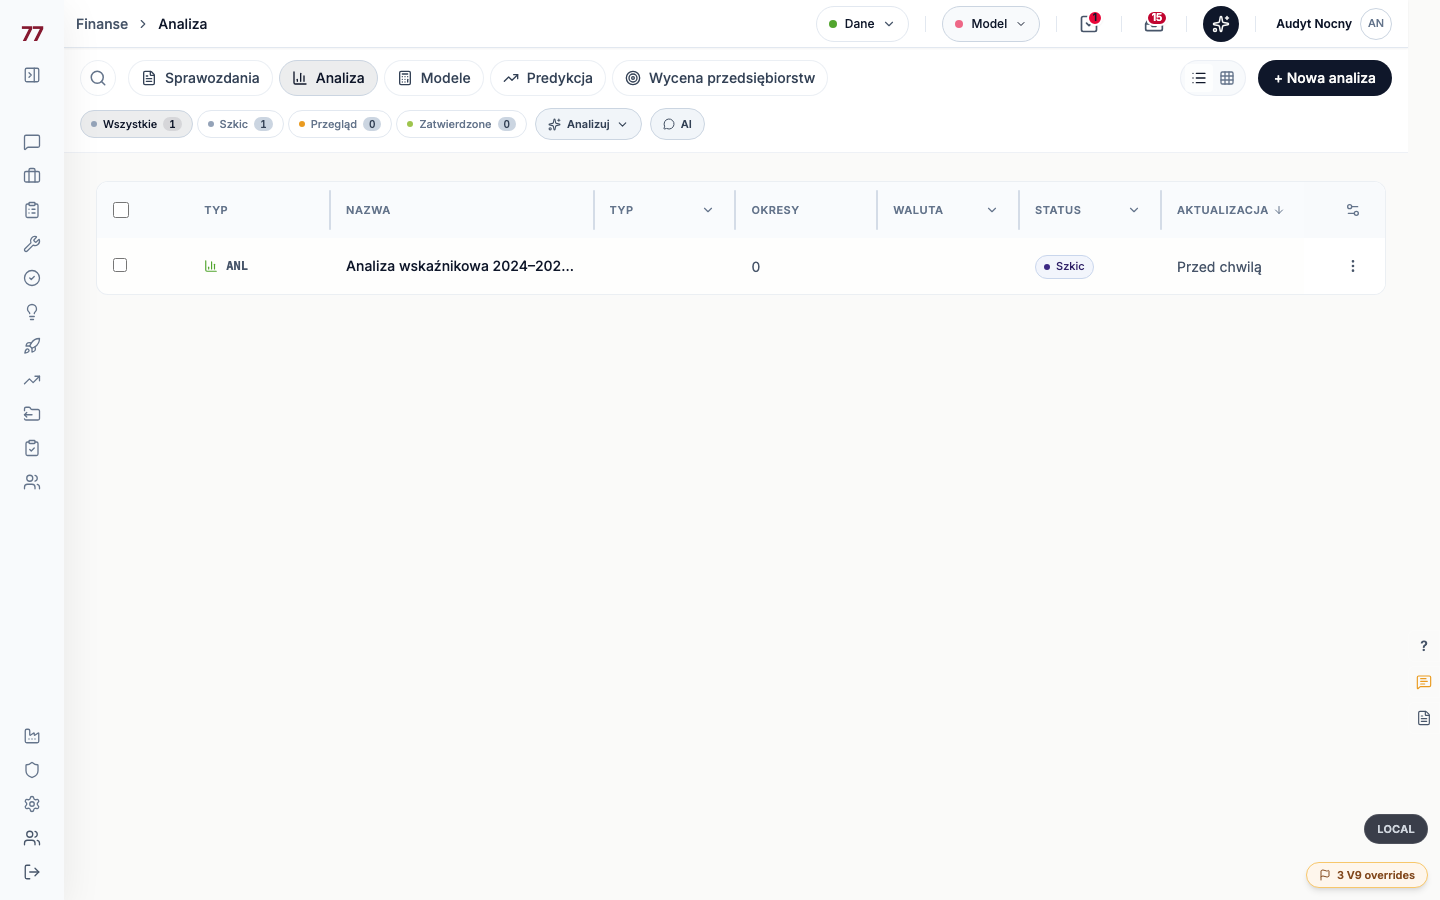
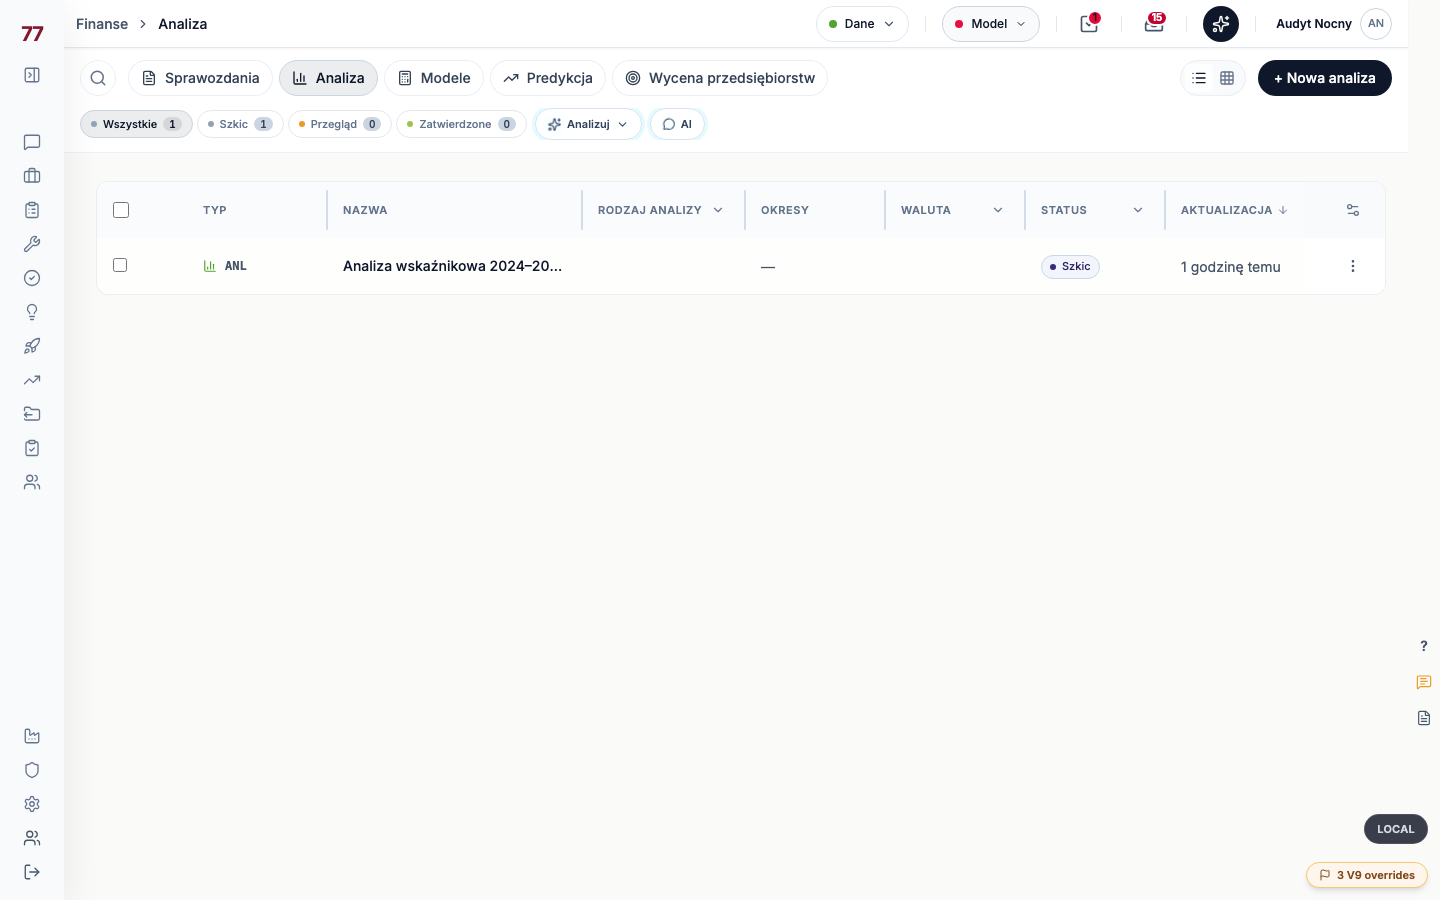
docs(finanse): raport dowodowy CD PROJEKT + zrzuty na zywo; uczciwa kreska zamiast 0 okresow
evidence/finanse-cdprojekt-pokaz-20260906/ — 6 zrzutow na zywo (wlasny serwer 4120 +
wlasny vite 3094, lokalna baza), kazdy z bledyKonsoli: [], plus RAPORT.md z pomiarem
roznicowym czerwonych wzgledem bazy 445b8c6f54 (zero nowych) i stanem stagingu.

Dodatkowo: rzut rejestru kanonicznego na liscie Analiz pokazywal 'OKRESY 0' — to bylo
falszem (analiza ma dwa okresy), a nie brakiem danych; teraz kreska.
Test AnalysisWorkspace.smoke: asercja zaktualizowana do nazwy ze slownika (fikstura
trzymala 'Marza brutto', ekran pokazuje 'Marza brutto na sprzedazy').

diff --git a/src/components/Finance/Analysis/__tests__/AnalysisWorkspace.smoke.test.tsx b/src/components/Finance/Analysis/__tests__/AnalysisWorkspace.smoke.test.tsx
@@ -207,7 +207,12 @@ describe('AnalysisWorkspace — montowanie realnego komponentu (jsdom)', () => {
       />
     );
     await waitFor(() => expect(apiMocks.getAnalysisKpiValues).toHaveBeenCalled());
-    await screen.findByText('Marża brutto');
+    // ★ Od naprawy audytu FIN 2026-09-06 (defekt #6a) nazwa wskaźnika NIE jest
+    // brana z `kpiName` katalogu (bywa angielska: „Gross Margin %"), tylko ze
+    // słownika `financeKpiLabels` — dla GROSS_MARGIN_PCT jest to „Marża brutto
+    // na sprzedaży". Fikstura celowo zostawia w `kpiName` inną wartość, żeby ten
+    // test dowodził, że wygrywa słownik, a nie surowe pole katalogu.
+    await screen.findByText('Marża brutto na sprzedaży');
     expect(screen.getByText('FY2026')).toBeInTheDocument();
     const zeroCells = screen.queryAllByText('0');
     expect(zeroCells).toHaveLength(0); // KONTROLA NEGATYWNA: MISSING nigdy nie renderuje się jako "0"

diff --git a/src/components/Economics/FinanceHub.tsx b/src/components/Economics/FinanceHub.tsx
@@ -1869,7 +1869,11 @@ export const FinanceHub: React.FC = () => {
           label: t('finance.columns.periods', 'Periods'),
           width: '100px',
           render: (row: FinanceRow) =>
-            row.kind === 'analysis' || row.kind === 'investment' ? (
+            // Rzut z rejestru kanonicznego świadomie NIE niesie pól domenowych
+            // (`canonicalRegistryProjection`) — „0 okresów" byłoby wtedy
+            // FAŁSZEM (analiza CD PROJEKT ma dwa), a nie brakiem danych.
+            // Uczciwy brak to kreska, nie zero.
+            (row.kind === 'analysis' || row.kind === 'investment') && row.periodCount > 0 ? (
               <span className="text-sm text-c-text-secondary">{row.periodCount}</span>
             ) : (
               <span className="text-sm text-c-text-muted">—</span>

diff --git a/evidence/finanse-cdprojekt-pokaz-20260906/RAPORT.md b/evidence/finanse-cdprojekt-pokaz-20260906/RAPORT.md
@@ -1,0 +1,219 @@
+# Finanse — CD PROJEKT do pokazu (2026-09-06)
+
+Gałąź `fin/cdprojekt-do-pokazu` (baza `445b8c6f54`). Naprawa 5 blokerów i 5 uwag ważnych
+z audytu `evidence/audyt-mvp-20260906/FIN/RAPORT_FIN.md` (werdykt: **NIE**).
+
+Środowisko dowodowe: własny serwer `127.0.0.1:4120` + własny vite `127.0.0.1:3094`
+(worktree `/private/tmp/wt-fincdp`), lokalna baza `consultify_noc` na 54400, org DBR77
+`cc9db573-260f-4a19-927f-f3cc1fbaea38`. Sesja: KOPIA `auth.json` → `auth-fincdp.json`.
+Staging tknięty wyłącznie skryptem seeda (dry-run → apply), zero ręcznego SQL.
+
+---
+
+## 1. Co było zepsute i co z tym zrobiono
+
+### BLOKER #3 audytu — „Otwórz" tworzył pusty duplikat
+
+**Zmierzona przyczyna (nie hipoteza).** Ścieżka: `FinanceHub.handleOpenFull` →
+`FinanceLegacyBridgeGate` → `useFinanceLegacyBridge` → `POST /artifacts/resolve-legacy/…/ensure`
+→ `legacyIdentityMaterializationService.ensureLegacyFinanceArtifactIdentity`. Ta funkcja
+szukała istniejącego artefaktu **wyłącznie po `natural_key` zbudowanym z NAZWY wiersza
+legacy** („Grupa Kapitałowa CD PROJEKT FY2024"). Prawdziwy pakiet z 238 liniami nosi klucz
+seeda (`seed:finance-cdprojekt-2025:<org>:GRUPA_KAPITALOWA_CD_PROJEKT`) — nie pasował, więc
+powstawał DRUGI, PUSTY `STATEMENT_PACK` i to on dostawał alias.
+
+Ślad w bazie przed naprawą (odczyt na zimno):
+`fe74a3a5-b7a5-4417-8721-b484b7a5dcb7`, `mapping_reason = materialized_on_open:STATEMENT_PACK`,
+0 linii — dokładnie artefakt-widmo opisany w audycie.
+
+**Naprawa w dwóch niezależnych warstwach:**
+
+1. **Kod (żeby nie odrosło u nikogo innego)** —
+   `server/src/services/finance/canonical/legacyIdentityMaterializationService.ts`:
+   nowa `findCanonicalStatementPackBySource()` dopasowuje pakiet po **ŹRÓDLE** (podmiot
+   `finance_stmt_entities.legal_name`/`entity_code` + pokrycie okresów pakietu legacy),
+   z twardym warunkiem `COUNT(l.id) > 0` — wiążemy się tylko z pakietem, który NAPRAWDĘ ma
+   linie. Gdy ani alias, ani źródło, ani nazwa nic nie znajdą → `NOT_MIGRATED`, czyli
+   uczciwy polski komunikat bramki („Ten rekord jeszcze nie ma odpowiednika w nowym
+   systemie"), a **nie** nowy, pusty artefakt. Zawężone do `STATEMENT_PACK` — Baseline,
+   Predykcja i Wycena celowo powstają jako pusta powłoka do wypełnienia i mają zachowanie
+   bez zmian.
+2. **Dane (żeby zadziałało jutro rano)** — `server/scripts/finance-seed-cdprojekt.ts`:
+   `ensureCanonicalAlias()` zakłada most legacy→kanoniczny idempotentnie, a gdy zastanie
+   alias wskazujący gdzie indziej — przepina go na pakiet seeda i **archiwizuje puste
+   widmo** (tylko jeśli ma 0 linii i pochodzi z materializacji; artefakt z treścią zostaje
+   nietknięty, z głośnym ostrzeżeniem). Diagnoza mostu wypisywana także w `--dry-run`.
+
+**Sprzątnięcie widma lokalnie:** `fe74a3a5-…` → `archived_at = 2026-09-05 22:30:19+00`,
+alias przepięty na `921a3360-7f2a-4e53-ac42-3c58842654cf` (238 linii).
+
+### BLOKER #4 — kody `AP` / `CASH` / `CURRENT_ASSETS` zamiast nazw pozycji
+
+`src/labels/financeLineLabels.ts` — **246 kodów** kanonicznych → nazwy PL:
+- **119** przepisanych DOSŁOWNIE z PDF (`server/scripts/data/cdprojekt-2025.json`, pole `key`);
+- **122** terminologia sprawozdawcza dla kodów, których PDF nie zawiera;
+- **5** z `line_name_pl` migracji repo (tam, gdzie niesie realną nazwę, a nie echo kodu).
+
+Zakres = CAŁA taksonomia systemowa, nie tylko pakiet CD PROJEKT — inaczej naprawa byłaby
+„poprawna w 1 z N" i odrosłaby przy pierwszym innym sprawozdaniu. Kolejność wyboru:
+słownik → nazwa z DTO taksonomii tej instalacji → jawne `Nieznana pozycja (KOD)`.
+Goły kod NIGDY nie wychodzi na ekran.
+
+Serwer: `GET /statements/:bv/lines` niesie odtąd `lineName` / `lineNamePl` / `sortOrder`
+(`statementMappingService.listStatementLines` + `statements.routes.ts`), a **kolejność
+wierszy idzie po `sort_order` taksonomii, nie po alfabecie kodów** — sprawozdanie czyta się
+jak sprawozdanie, nie jak posortowany rejestr.
+
+### BLOKER #3b — tytuły artefaktów = klucze techniczne
+
+Migracja **addytywna** `server/migrations/20261102_finance_artifact_display_name.sql`
+(jedna kolumna nullable, zero DROP, zero zmian istniejących wierszy) rozdziela role:
+`natural_key` = KLUCZ idempotencji, `display_name` = NAZWA dla człowieka.
+
+`src/labels/financeArtifactTitle.ts` to JEDNO miejsce decyzji „co pokazać":
+`display_name` → `natural_key` (tylko jeśli nie jest techniczny) → uczciwa nazwa rodzajowa.
+`isRawTechnicalValue()` łapie UUID w dowolnym miejscu, maszynowy prefiks z dwukropkiem i
+pojedynczy token bez spacji — a nie łapie nazw pisanych przez człowieka („Analiza 2025:
+wnioski"). Wpięte w: kartę pakietu, kartę analizy, `CanonicalFinanceDirectWorkspace`, rzut
+rejestru kanonicznego na liście i panel powiązań.
+
+Seedy ustawiają nazwy: „Grupa Kapitałowa CD PROJEKT — skonsolidowane sprawozdanie 2025
+(z 2024)" i „Analiza wskaźnikowa 2024–2025 — CD PROJEKT".
+
+### BLOKER #6 — karta analizy po angielsku, z komentarzem z kodu i UUID-em
+
+- `src/labels/financeKpiLabels.ts` — 18 wskaźników katalogu P0: nazwa PL, kategoria PL
+  (koniec z `EFFICIENCY`/`LIQUIDITY`/`LEVERAGE`) oraz **rozdzielone** WZÓR
+  („Aktywa obrotowe / Zobowiązania krótkoterminowe") i OGÓLNA INTERPRETACJA. Przed naprawą
+  `AnalysisWorkspace.tsx` wpisywało w OBIE kolumny to samo pole `catalog.description`,
+  które jest notatką inżynierską autora formuły („…via formula_ref (DRY at the AST level,
+  ADR section 5.4)").
+- `src/labels/financeKpiCommentLabels.ts` — mapper komunikatów silnika:
+  `NA_REASON:DENOMINATOR_MISSING — … got 'FY' for 3206a8c3-…` → „Nie policzono: ten wskaźnik
+  wymaga danych kwartalnych (suma z 4 kwartałów), a pakiet zawiera wyłącznie okresy roczne."
+  Komentarz napisany przez człowieka przechodzi bez zmian; nieznany komunikat silnika też
+  nie przecieka surowy (żaden UUID nie wychodzi na ekran).
+
+### BLOKER #7 — crimson na CTA Modeli
+
+`FinanceHub.tsx` pusty stan Modeli: ikona `bg-crimson-500/10` → `bg-c-surface-raised`,
+przycisk `bg-crimson-600` → `bg-c-text`, hover `border-crimson-300` → `border-c-border`.
+Pomiar pikselowy zrzutu `06-modele-bez-crimson.png`: **zero** pikseli `#85182F ±18`
+w obszarze treści. 23 piksele, które zostają, są w dwóch miejscach POZA modułem:
+logo „77" (x 0–50) i kropka statusu „Model" w górnym pasku aplikacji (x ≈ 1050) — obecne
+identycznie na zrzutach audytu SPRZED zmian, więc nie regresja.
+
+### WAŻNE #2, #5, #12 i kosmetyka
+
+- **badge „APPROVED"** w podglądzie → `statusChipLabel` → „Zatwierdzone" (ta sama encja
+  w tabeli obok pokazywała już polską wersję — niespójność na jednym ekranie).
+- **angielskie zdanie „Stan pakietu"** z `financialStatementPackService.ts:216-224` →
+  `statementPackStateSentence()` w `statementReadinessCopy.ts` składa zdanie po polsku ze
+  STANU + KODÓW POWODÓW; backend nie zna języka użytkownika i nie powinien znać.
+  Klucze i18n `finance.statements.state.*` (pl + en).
+- **lista Analiz pusta mimo istniejącej analizy** → `financeCanonicalMerge.ts` +
+  `useFinanceData.loadAnalyses` czyta ZAWSZE oba źródła (legacy i rejestr kanoniczny),
+  awaria odczytu kanonicznego degraduje się do pustej tablicy i nie wywraca listy.
+  Wzorzec z `mergeLegacyInitiativesIntoRegister`, z jedną ZMIERZONĄ różnicą: w Finansach
+  bogatszy jest wiersz legacy (ma typ, walutę, okresy i wskaźnik na kanonicznego
+  bliźniaka), więc to ON wygrywa kolizję, a rejestr dokłada wyłącznie sieroty.
+- **„v.d7b0b5de" + „Manual link"** w panelu powiązań → krawędzie rodowodu niosą nazwy
+  artefaktów na obu końcach (`lineageService` + `crosscutting.routes`), panel pokazuje
+  „Analiza wskaźnikowa 2024–2025 — CD PROJEKT" i „Powiązanie ręczne".
+- **dwa nagłówki „TYP"** obok siebie na liście Analiz → drugi to „Rodzaj analizy".
+- **„0 okresów"** dla rzutu kanonicznego → kreska. Zero było FAŁSZEM (analiza ma dwa
+  okresy), a nie brakiem danych.
+
+---
+
+## 2. Dowody
+
+### Testy i mutacje
+
+| Plik testu | Twierdzeń | Mutacja (skasowanie zabezpieczenia) |
+|---|---|---|
+| `server/src/services/finance/canonical/__tests__/legacyIdentityMaterializationStatementPack.pg.test.ts` | 3 | wyłączenie dopasowania po źródle + zakazu pustego pakietu → **2 czerwone** |
+| `src/labels/__tests__/financeLineLabels.test.ts` | 8 | usunięcie etykiety `CASH` → **3 czerwone** |
+| `src/labels/__tests__/financeKpiLabels.test.ts` | 6 | powrót `description` do kolumny WZÓR → **1 czerwony** |
+| `src/labels/__tests__/financeKpiCommentLabels.test.ts` | 6 | echo surowego tekstu silnika → **3 czerwone** |
+| `src/labels/__tests__/financeArtifactTitle.test.ts` | 5 | puszczenie `natural_key` bez sprawdzenia → **2 czerwone** |
+| `src/components/Economics/__tests__/financeCanonicalMerge.test.ts` | 4 | ignorowanie rejestru kanonicznego → **2 czerwone** |
+
+Test `.pg` biegnie na REALNYM Postgresie (`RUN_DB_TESTS=1 MOCK_DB=false`), zakłada własną
+organizację i sprząta po sobie (`session_replication_role=replica`; po przebiegu
+`select count(*) from organizations where id like 'org-fin-matz-%'` = **0**).
+
+### Bramki
+
+- `cd server && npx tsc --build tsconfig.build.json` → **exit 0**
+- `bash scripts/check-list-canon.sh` → OK (naruszeń 361, baseline 364 — **dług SPADŁ o 3**)
+- `bash scripts/check-artefakt.sh` → OK (crimson 8, baseline 8 — dług nie rośnie)
+- esbuild per plik dla każdego dotkniętego `.ts`/`.tsx` → OK
+- **zmodyfikowanych migracji: 0** (tylko jedna NOWA, addytywna)
+
+### Zero nowych czerwonych (pomiar różnicowy, nie deklaracja)
+
+Ten sam zestaw uruchomiony na gałęzi i na bazie `445b8c6f54` (osobny worktree):
+
+| Zakres | Baza | Po zmianach | Różnica |
+|---|---|---|---|
+| `src/components/Finance` + `src/components/Economics` + `src/labels` | 27 czerwonych plików | 27 | **0 nowych** |
+| `server/src/services/finance/canonical` (`RUN_DB_TESTS=1`) | 18 | 18 + 2 | patrz niżej |
+
+Dwa „nowe" czerwone w `benefitTrackingUpgradeProtection.pg.test.ts` (ochrona
+`benefit_tracking`, zero związku z Finansami-UI) **przechodzą 15/15 uruchomione osobno
+NA OBU gałęziach** — to flake zależny od kolejności na współdzielonej bazie, nie regresja.
+Jeden realnie nowy czerwony (`AnalysisWorkspace.smoke`) był STARYM oczekiwaniem testu:
+fikstura trzymała `kpiName: 'Marża brutto'`, a ekran pokazuje odtąd nazwę ze słownika
+(„Marża brutto na sprzedaży") — asercja zaktualizowana wraz z uzasadnieniem w kodzie testu.
+
+### Zrzuty NA ŻYWO (własny serwer + własny vite + lokalna baza), `bledyKonsoli: []` na każdym
+
+| Zrzut | Co widać |
+|---|---|
+| `01-lista-sprawozdan.png` | Lista Sprawozdań: `StandardTable`, jeden wiersz „Grupa Kapitałowa CD PROJEKT", chip „Zatwierdzone", P&L / BS / CF, FY2024, PLN, 6 dokumentów. |
+| `02-podglad.png` | Podgląd po kliknięciu wiersza: pastylka **„Zatwierdzone"** (było „APPROVED"), „Stan pakietu" = *„Pakiet jest kompletny: rachunek zysków i strat, bilans oraz rachunek przepływów pieniężnych."* (było angielskie zdanie z backendu). |
+| `03-pakiet-po-otworz.png` | **Klik „Otwórz" otwiera PRAWDZIWY pakiet**: „119 linii × 2 okresów", nazwy po polsku (Środki pieniężne i ekwiwalenty…, AKTYWA OBROTOWE, Należności handlowe, Zobowiązania handlowe, KAPITAŁ WŁASNY), liczby zgodne z PDF: **AKTYWA RAZEM 3 026 438 / 3 503 320**, PASYWA RAZEM identycznie, KAPITAŁ WŁASNY 2 774 059 / 3 289 859. Panel powiązań: „Analiza wskaźnikowa 2024–2025 — CD PROJEKT · Powiązanie ręczne". |
+| `04-lista-analiz.png` | Lista Analiz **nie jest już pusta**: „Analiza wskaźnikowa 2024–20…", nagłówki „TYP" i „RODZAJ ANALIZY" (koniec duplikatu), OKRESY = „—". |
+| `05-analiza-karta.png` | Karta analizy: tytuł „Analiza wskaźnikowa 2024–2025 — CD PROJEKT" (był `derived-analysis:script:4db71c39-…`), **18/18 wskaźników po polsku**, kategorie „Efektywność"/„Płynność"/„Zadłużenie", WZÓR czytelny („Aktywa obrotowe / Zobowiązania krótkoterminowe"), KOMENTARZ = „Nie policzono: ten wskaźnik wymaga danych kwartalnych…". Skan tekstu: **zero** wystąpień `Cash Ratio`, `LIQUIDITY`, `NA_REASON`, `formula_ref`, `ADR section`. |
+| `06-modele-bez-crimson.png` | Pusty stan Modeli: CTA „Utwórz model finansowy" neutralny, zero crimson w treści. |
+
+---
+
+## 3. Staging
+
+Baza z `DATABASE_PUBLIC_URL` (`thomas.proxy.rlwy.net:52567/railway`), org właściciela
+`a3e05d4a-5397-419d-b486-8e44366c0063`. Zapis WYŁĄCZNIE przez seed, najpierw `--dry-run`.
+
+**Dry-run zapowiedział:** `MOST legacy→kanoniczny: alias = BRAK; artefakt seeda =
+67f0e754-… → --apply ZAŁOŻY alias` oraz `kolumna finance_artifacts.display_name NIE
+ISTNIEJE w tej bazie (migracja 20261102 wejdzie z wdrożeniem) — --apply jej NIE ustawi`.
+
+**`--apply` zrobił dokładnie to:** alias `cdp2025-pack-e2daa0b810 → 67f0e754-…` założony,
+238 linii kanonicznych przepisanych, 6 sprawozdań legacy / 292 pozycje, `pack_readiness_status = ready`.
+
+**Odczyt na zimno (osobne połączenie, po fakcie):**
+- alias istnieje i wskazuje pakiet z **238 liniami**, `bv = e57594d1-…`;
+- liczba artefaktów `STATEMENT_PACK` w organizacji **bez zmian (7)** — żadnego widma nie przybyło.
+
+**Czego na stagingu NIE ma i dlaczego:** nazw wyświetlanych (`display_name`). Kolumna
+powstaje migracją `20261102`, która wjedzie razem z wdrożeniem tej gałęzi. Skrypt jest na to
+odporny — nie wywraca się, mówi wprost i prosi o powtórny `--apply` po wdrożeniu. Do tego
+czasu tytuły artefaktów na stagingu zostają techniczne. **Nie uruchamiałem ręcznego DDL na
+cudzym środowisku.**
+
+---
+
+## 4. Czego NIE zrobiono (wprost)
+
+- **Tryb ciemny** — niesprawdzony (ten sam brak co w audycie).
+- **Baseline / Predykcja / Wycena** — nietknięte. Ryzyko `409 BASELINE_CONTEXT_NOT_CONFIGURED`
+  z audytu F0 pozostaje nierozstrzygnięte; **nie pokazywać Baseline na żywo**.
+- **Panel 21 narzędzi wartości** (`FinanceValuePanelsSurface`) — przyczyna
+  niewyrenderowania mimo `VITE_FINANCE_VALUE_PANELS=true` dalej nierozstrzygnięta.
+- **Kosmetyka „-234,897 dni"** (nadmierna precyzja cyklu konwersji gotówki) — zostaje.
+- **Wysokie wiersze tabeli wskaźników** — kolumna „Interpretacja" zawija się na trzy–cztery
+  linie przy 1440 px; czytelne, ale nie eleganckie.
+- **Kolejność pozycji w sprawozdaniu** idzie po `sort_order` taksonomii, co jest DUŻO lepsze
+  od alfabetu kodów, ale nie jest jeszcze układem 1:1 z PDF (Aktywa trwałe przed obrotowymi).
+- **Zero pushy.** Gałąź `fin/cdprojekt-do-pokazu` czeka na decyzję nadzorcy.
